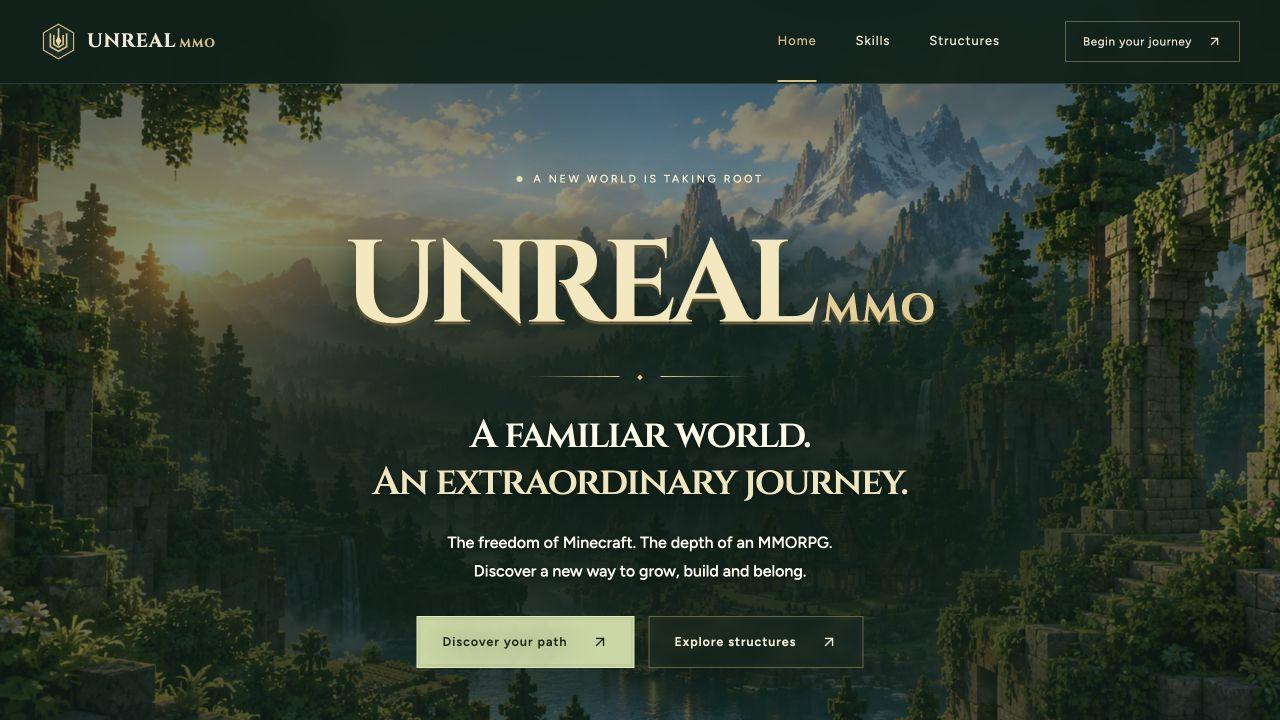
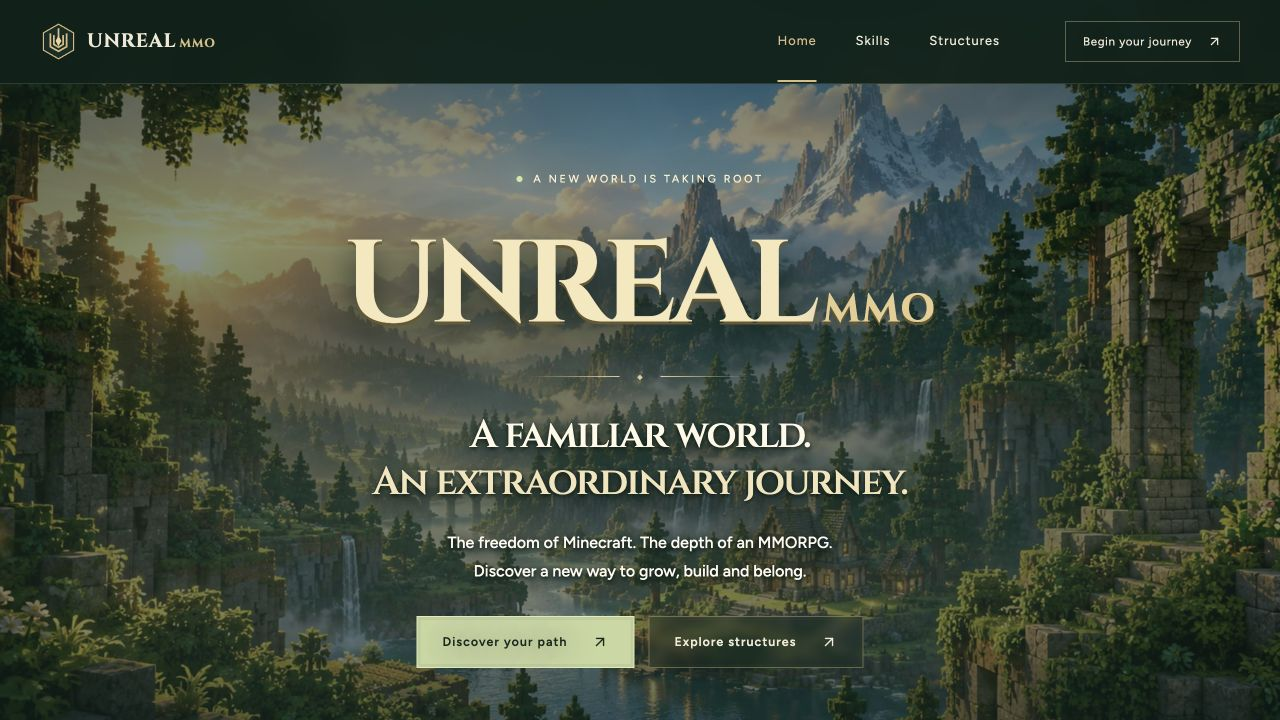
Soften hero shade, add drifting fog, and publish verified site

diff --git a/app/globals.css b/app/globals.css
@@ -2050,6 +2050,14 @@ tbody tr:nth-child(even) {
     height: 230px;
   }
 }
+@media (max-width: 380px) {
+  .skill-grid {
+    grid-template-columns: 1fr;
+  }
+  .skill-card {
+    min-height: 220px;
+  }
+}
 @media (prefers-reduced-motion: reduce) {
   html {
     scroll-behavior: auto;
@@ -2067,7 +2075,7 @@ tbody tr:nth-child(even) {
 .hero-content::before {
   content: "";
   position: absolute;
-  z-index: -1;
+  z-index: -2;
   inset: 7% -8% -9%;
   pointer-events: none;
   background: radial-gradient(
@@ -2078,6 +2086,52 @@ tbody tr:nth-child(even) {
     rgba(11, 33, 24, 0) 76%
   );
   filter: blur(16px);
+  opacity: 0.5;
+}
+.hero-fog {
+  position: absolute;
+  z-index: -1;
+  inset: 8% -18% -16%;
+  pointer-events: none;
+  overflow: hidden;
+  mask-image: radial-gradient(ellipse at 50% 58%, #000 24%, transparent 73%);
+}
+.hero-fog::before,
+.hero-fog::after {
+  content: "";
+  position: absolute;
+  inset: -20%;
+  background:
+    radial-gradient(ellipse at 25% 57%, #c1d2bb26 0%, transparent 37%),
+    radial-gradient(ellipse at 73% 66%, #a7c1b329 0%, transparent 34%),
+    radial-gradient(ellipse at 48% 40%, #d1dbc619 0%, transparent 29%);
+  filter: blur(22px);
+  animation: hero-fog-drift 32s ease-in-out infinite alternate;
+}
+.hero-fog::after {
+  background:
+    radial-gradient(ellipse at 32% 72%, #d1dbc621 0%, transparent 32%),
+    radial-gradient(ellipse at 68% 42%, #a7c1b329 0%, transparent 36%);
+  animation-duration: 43s;
+  animation-delay: -17s;
+  animation-direction: alternate-reverse;
+}
+@keyframes hero-fog-drift {
+  from {
+    transform: translate3d(-8%, 3%, 0) scale(1);
+    opacity: 0.55;
+  }
+  to {
+    transform: translate3d(8%, -3%, 0) scale(1.08);
+    opacity: 0.9;
+  }
+}
+@media (prefers-reduced-motion: reduce) {
+  .hero-fog::before,
+  .hero-fog::after {
+    animation: none;
+    opacity: 0.55;
+  }
 }
 .hero h2 {
   color: #fff9e7;

diff --git a/tests/content.test.ts b/tests/content.test.ts
@@ -103,11 +103,17 @@ test("every structure trait resolves to a guide and identifiers are unique", () 
       if (t.structure) assert.ok(structures.some((s) => s.id === t.structure));
     }
 });
-test("Pages stays disabled: CI verifies only, with no deployment permissions or job", () => {
+test("Pages publishes only verified main pushes, never pull requests", () => {
   const workflow = readFileSync(".github/workflows/verify.yml", "utf8");
-  assert.ok(!workflow.includes("deploy-pages"));
-  assert.ok(!workflow.includes("pages: write"));
-  assert.ok(!workflow.includes("id-token: write"));
+  const deployment = workflow.split("  deploy:\n")[1];
+  assert.ok(
+    deployment.includes(
+      "if: github.event_name == 'push' && github.ref == 'refs/heads/main'",
+    ),
+  );
+  assert.ok(deployment.includes("needs: verify"));
+  assert.ok(workflow.includes("- run: npm run verify"));
+  assert.ok(workflow.includes("path: out"));
 });
 
 test("every displayed XP and passive bonus matches the executed Java plugin rules", () => {

diff --git a/app/page.tsx b/app/page.tsx
@@ -22,6 +22,7 @@ export default function Home() {
         />
         <div className="hero-shade" />
         <div className="hero-content wrap">
+          <div className="hero-fog" aria-hidden="true" />
           <p className="hero-kicker">
             <span /> A new world is taking root
           </p>

diff --git a/docs/VERIFICATION.md b/docs/VERIFICATION.md
@@ -3,16 +3,16 @@
 ## Automated evidence
 
 - Production static export and TypeScript validation passed.
-- Eight automated test groups passed: XP completeness, ordinary/milestone progression, combined Farming unlocks, ore-tree geometry and material counts, Hearthstone geometry, guide references, non-publishing CI configuration, and direct comparison with executed Java rules.
+- Eight automated test groups passed: XP completeness, ordinary/milestone progression, combined Farming unlocks, ore-tree geometry and material counts, Hearthstone geometry, guide references, main-only deployment guards, and direct comparison with executed Java rules.
 - All 495 displayed levels were compared against the actual plugin's pure Java implementations, compiled with Java 25. The numeric fixture records the plugin commit. This executes no game/server logic.
 - Export inspection passed for 20 HTML files (18 content pages plus generated not-found outputs), 584 internal asset/link references, 42 image alt attributes, and 495 server-rendered level rows.
 - npm dependency audit: zero reported vulnerabilities after the PostCSS 8.5.31 override.
 
 ## Browser checks
 
-The actual static export was served locally, without a Next.js runtime server. Browser verification covered desktop (1280 × 720) and mobile (390 × 844):
+The actual static export was served locally, without a Next.js runtime server. Browser verification covered desktop (1280 × 720) and mobile (390 × 844), with an additional 319-pixel-wide preview check:
 
-- Homepage visual layout and navigation to the skills and structures catalogues. A feathered forest-green overlay, brighter text and restrained shadows improve hero readability on desktop and mobile; screenshots are saved in `docs/screenshots/`.
+- Homepage visual layout and navigation to the skills and structures catalogues. The feathered forest-green overlay uses 50% opacity, with two slow fog layers behind crisp text. CSS disables the fog animation for reduced-motion preferences. Animation movement and non-intercepting pointer behavior were checked in the browser; screenshots are saved in `docs/screenshots/`.
 - Mobile menu opening, navigation and dismissal. No document-level horizontal overflow on inspected mobile pages.
 - Complete 99-row initial skill table, unlock-only filter, search for Diamond Tree and return to all levels.
 - Keyboard-controlled level slider reaching level 99, showing 1,000,000 XP and correct cumulative Farming bonuses.
@@ -21,12 +21,12 @@ The actual static export was served locally, without a Next.js runtime server. B
 - Hearthstone WebGL rendering and its 17 × 17 × 17 territory overlay on mobile.
 - Non-WebGL instructions, diagrams and materials remain in the static HTML. The WebGL error boundary was inspected in code; a forced driver-failure scenario was not exercised.
 
-A camera framing issue in exploded view was found and corrected. Developer-mode logs included a Three.js Clock deprecation warning from the rendering dependencies; no application error was observed during those interactions. Browser testing is representative, not an exhaustive matrix of hardware and browser versions.
+A camera framing issue in exploded view and skill-card overflow at 319 pixels were found and corrected. Developer-mode logs included a Three.js Clock deprecation warning from the rendering dependencies; no application error was observed during those interactions. Browser testing is representative, not an exhaustive matrix of hardware and browser versions.
 
 ## Delivery scope
 
-No Minecraft plugin, game data, server configuration or deployment was changed. Website verification does not demonstrate Folia compatibility, authenticated multiplayer behavior or server capacity. Gameplay values describe a reviewed development snapshot and shipped defaults.
+No Minecraft plugin, game data, server configuration or game-server deployment was changed. Website verification does not demonstrate Folia compatibility, authenticated multiplayer behavior or server capacity. Gameplay values describe a reviewed development snapshot and shipped defaults.
 
 The repository contains website source, public gameplay facts, original artwork and numeric test fixtures. No private plugin source, player data, game worlds, credentials, raw server logs or reference-site tracking configuration is included.
 
-The only workflow verifies builds. It cannot publish Pages. GitHub Pages must remain disabled until explicitly requested.
+The user subsequently authorized GitHub Pages publication. The workflow verifies before publishing the static export on main pushes; pull requests cannot deploy. Legacy branch publishing was disabled, and the custom domain remains unset.

diff --git a/README.md b/README.md
@@ -19,11 +19,13 @@ npm run verify
 
 This runs numerical/content/geometry checks, a production static export, and a check of internal links, local assets, metadata, image alt attributes and all pre-rendered level rows. Static output is in `out/`. TypeScript is checked during the Next.js production build.
 
-## Publishing is disabled
+## Publishing
 
-GitHub Pages is not enabled. `.github/workflows/verify.yml` only verifies the build with read-only repository permission. It contains no deployment step. No Fly.io or Sites hosting configuration is included.
+The site is published at https://unrealmmo.github.io/. The user authorized publication on 19 October 2026. The repository uses GitHub Actions as its Pages source; the legacy branch/Jekyll publisher is disabled.
 
-When publication is explicitly requested, enable GitHub Pages using GitHub Actions and add the official upload/deploy Pages actions with the appropriate environment approval. Deploy the contents of `out/`. This organization repository uses the root path, so no `basePath` is needed. `trailingSlash: true` produces directory-index routes that survive direct navigation and refresh. Update `config/site.ts` before adding a custom domain.
+`.github/workflows/verify.yml` verifies pull requests and main pushes. Only a successful main push uploads the `out/` export and publishes it through the `github-pages` environment. Deployment permissions are scoped to the deployment job. No custom domain is configured yet.
+
+This organization repository uses the root path, so no `basePath` is needed. `trailingSlash: true` produces directory-index routes that survive direct navigation and refresh. When the user supplies a domain, update `config/site.ts` and the Pages domain settings after configuring DNS.
 
 ## Stack
 

diff --git a/AGENTS.md b/AGENTS.md
@@ -3,7 +3,7 @@
 This is the public website, not the private gameplay implementation. Keep plugin code, worlds, player data, logs, credentials, and private API configuration out of this repository.
 
 - Preserve the Next.js App Router / React / TypeScript / Tailwind static-export setup.
-- GitHub Pages publishing is OFF at the user's request. Verification CI may build but must not deploy. Do not enable Pages or add an active publishing workflow without a later request.
+- The user authorized GitHub Pages publication on 19 October 2026. Publish the verified static export from main only. Pull requests must never deploy. Keep the existing organization-site repository name; leave the custom domain unset until the user provides it.
 - Commit and push verified changes to main.
 - Explain only implemented skills and structures. Keep NPC features out of the public site for now. Server availability remains "In development" until confirmed.
 - Verify handbook numbers against the actual plugin rules. Do not infer full Folia compatibility or load capacity from website tests.
